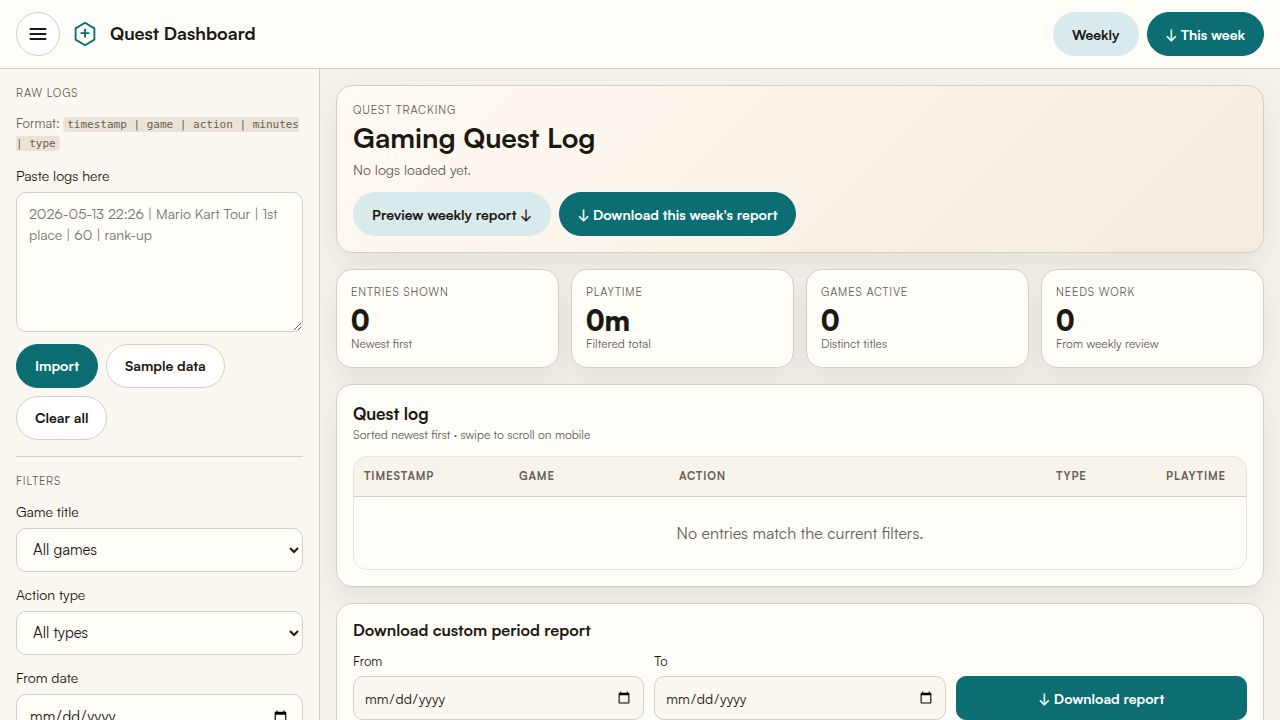
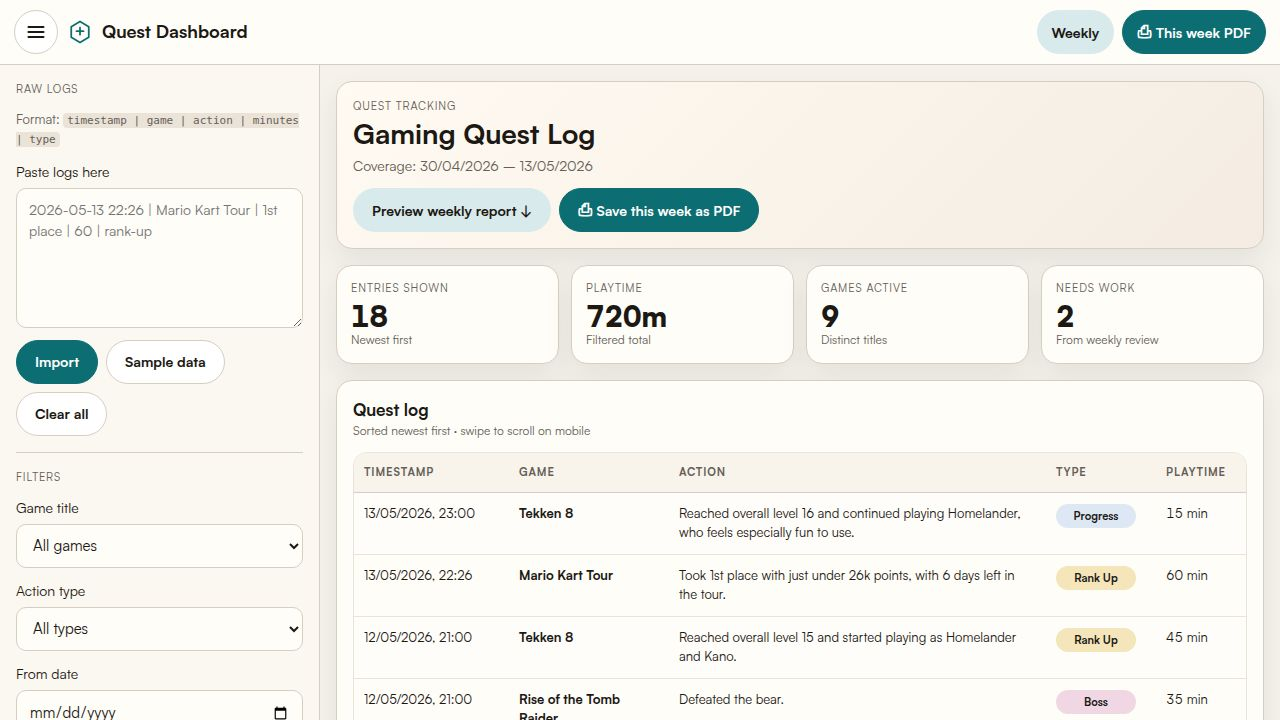
Improve log import error handling and proxy configuration
Configure Vite dev proxy to forward /api requests and enhance error reporting in the API client to include detailed server responses.

Replit-Commit-Author: Agent
Replit-Commit-Session-Id: 5f2e2233-d031-491a-aa5d-28de4fea5168
Replit-Commit-Checkpoint-Type: full_checkpoint
Replit-Commit-Event-Id: 775d418d-ed21-4567-bb56-0cb989963f04
Replit-Commit-Screenshot-Url: https://storage.googleapis.com/screenshot-production-us-central1/98189c8c-8044-4383-9af8-550157fe8ca9/5f2e2233-d031-491a-aa5d-28de4fea5168/BACcQV8
Replit-Helium-Checkpoint-Created: true

diff --git a/artifacts/gaming-quest/src/lib/api.ts b/artifacts/gaming-quest/src/lib/api.ts
@@ -39,7 +39,11 @@ export async function saveLogs(entries: LogEntry[]): Promise<LogEntry[]> {
     headers: { 'Content-Type': 'application/json' },
     body: JSON.stringify(body),
   });
-  if (!res.ok) throw new Error('Failed to save logs');
+  if (!res.ok) {
+    let detail = `HTTP ${res.status}`;
+    try { const j = await res.json(); detail += `: ${j.error || j.detail || JSON.stringify(j)}`; } catch {}
+    throw new Error(detail);
+  }
   const rows: ApiLogRow[] = await res.json();
   return rows.map(rowToEntry).filter((e): e is LogEntry => e !== null);
 }

diff --git a/artifacts/gaming-quest/vite.config.ts b/artifacts/gaming-quest/vite.config.ts
@@ -66,6 +66,12 @@ export default defineConfig({
     fs: {
       strict: true,
     },
+    proxy: {
+      "/api": {
+        target: "http://localhost:8080",
+        changeOrigin: true,
+      },
+    },
   },
   preview: {
     port,

diff --git a/artifacts/gaming-quest/src/App.tsx b/artifacts/gaming-quest/src/App.tsx
@@ -115,8 +115,8 @@ export default function App() {
     try {
       const saved = await saveLogs(newEntries);
       setLogs(prev => dedupe([...prev, ...saved]).sort((a, b) => b.date.getTime() - a.date.getTime()));
-    } catch {
-      alert('Failed to save logs to the server. Please try again.');
+    } catch (err) {
+      alert(`Failed to save logs: ${err instanceof Error ? err.message : String(err)}`);
       return false;
     } finally {
       setSaving(false);